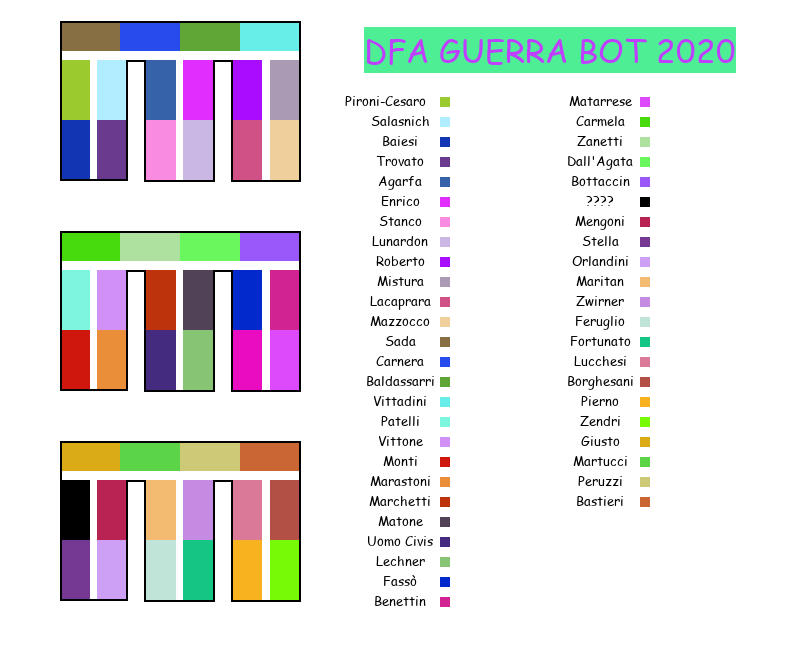
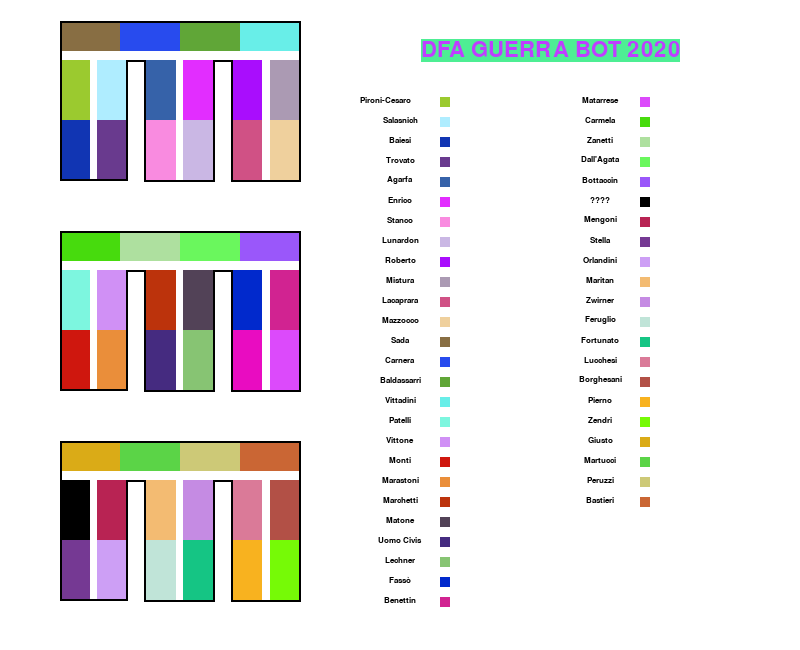
.

Changed region(s): [[0.4375, 0.1538, 0.5312, 0.9538], [0.4375, 0.0308, 0.9375, 0.1231], [0.7188, 0.1538, 0.7812, 0.8]]

diff --git a/main.py b/main.py
@@ -5,19 +5,69 @@ import secrets
 # 0 - fa una partita completa da capo, senza grafica
 # 1 - fa una partita completa dallo stato salvato, senza grafica
 # 2 - legge il file salvato, fa una mossa, mostra la mappa
-# 3 - legge il file salvato, fa una mossa, mostra la mappa, salva file+screen
-# 4 - genera istogramma delle vittorie da capo
-# 5 - legge il file salvato, genera istogramma delle vittorie
+# 3 - legge il file salvato, fa una mossa, mostra la mappa, salva file + screen
+# 4 - istogramma vincitori da capo
+# 5 - istogramma vincitori da stato salvato
 # 6 - istogramma lunghezza partite da capo
 # 7 - istogramma lunghezza partite da stato salvato
-# 9 - schermata iniziale
-# 10 - schermata attuale
+# 9 - schermata iniziale + screen
+# 10 - schermata attuale + screen
 # 11 - testing
+
 mode = 9
 
 GAME_NUMBER = 5000
 
 Z_DIST = 30
+
+NAMES = [
+    'Pironi-Cesaro', 
+    'Salasnich',
+    'Baiesi',
+    'Trovato',
+    'Agarfa',
+    'Enrico',
+    'Stanco',
+    'Lunardon',
+    'Roberto',
+    'Mistura',
+    'Lacaprara',
+    'Mazzocco',
+    'Sada',
+    'Carnera',
+    'Baldassarri',
+    'Vittadini',
+    'Patelli',
+    'Vittone',
+    'Monti',
+    'Marastoni',
+    'Marchetti',
+    'Matone',
+    'Uomo Civis',
+    'Lechner',
+    'Fassò',
+    'Benettin',
+    'Matarrese',
+    'Carmela',
+    'Zanetti',
+    "Dall'Agata",
+    'Bottaccin',
+    '????',
+    'Mengoni',
+    'Stella',
+    'Orlandini',
+    'Maritan',
+    'Zwirner',
+    'Feruglio',
+    'Fortunato',
+    'Lucchesi',
+    'Borghesani',
+    'Pierno',
+    'Zendri',
+    'Giusto',
+    'Martucci',
+    'Peruzzi',
+    'Bastieri']
 
 LOCATIONS = [
     [[75,  60, 0], [155, 202,  47]],
@@ -70,6 +120,7 @@ LOCATIONS = [
     [[270, 36, 2], [202, 102,  52]]
 ]
 
+print(len(LOCATIONS))
 def owner(players, location):
     '''
     Returns the owner of the given location
@@ -133,7 +184,7 @@ def read_players(file):
     
 def generate_color_list(players):
     '''
-    Returns the color list ready to be fed into show_map
+    Returns the color list ready to be fed into map.replot
     '''
     
     colors = []
@@ -142,7 +193,18 @@ def generate_color_list(players):
         colors.append(LOCATIONS[owner(players,i)][1])
         
     return colors
+    
+def generate_legend(players):
+    legend = generate_color_list(VANILLA_PLAYERS)
+    
+    for i in range(len(players)):
+        if players[i] == []:
+            legend[i] = [255,255,255]
+            
+    return legend 
 
+
+VANILLA_PLAYERS = read_players("vanilla_state.txt")
 
 if mode == 0 or mode==1:
     if mode == 0:
@@ -171,7 +233,6 @@ if mode == 0 or mode==1:
             
 elif mode == 2 or mode == 3:
     players = read_players("saved_state.txt")
-    initial_colors = generate_color_list(players)
     
     random_location = secrets.randbelow(len(LOCATIONS))
     near_locations = nearest(players, random_location)
@@ -185,16 +246,17 @@ elif mode == 2 or mode == 3:
         players[loser].remove(target_location)
         players[winner].append(target_location)
         
-        print(str(winner) + " conquista " + str(loser) + \
-              " in " + str(target_location))
+        print(NAMES[winner] + " ha occupato l'ufficio di " + NAMES[loser]+ ".")
+        if players[loser] == []:
+            print(NAMES[loser] + " è stato completamente sconfitto")
         
+        legend = generate_legend(players)
         new_colors = generate_color_list(players)
-        
-        
+       
         if mode == 2:
-            map.replot(initial_colors, new_colors, 0)
+            map.replot(legend, new_colors, 0)
         elif mode == 3:
-            map.replot(initial_colors, new_colors, 1)
+            map.replot(legend, new_colors, 1)
             write_players(players, "saved_state.txt")
     else:
         print(winner)
@@ -229,6 +291,7 @@ elif mode == 4 or mode == 5:
     import matplotlib.pyplot as plt
     fig, ax = plt.subplots()
     n = ax.bar(range(len(LOCATIONS)), winners, tick_label=range(len(LOCATIONS)))
+    plt.xticks(range(len(LOCATIONS)), NAMES, rotation=90, fontsize=10)
     plt.title("z= " + str(Z_DIST) + " N=" + str(GAME_NUMBER))
     plt.show()
     

diff --git a/map.py b/map.py
@@ -306,10 +306,17 @@ def updatecolor(idsconfitto, idvincitore, colorv):
 
 def replot(colorv, colorv1, save_image):
 
+    from platform import system
     import pygame as pg
     import numpy as np
     # import pandas as pd
     import random
+
+    # Font, su mac o altrove
+    if system() == 'Darwin': 
+        comicsans = 'comicsansmsttf'
+    else:
+        comicsans = 'comicsansms'
 
     #Colors
     white = (255,255,255)
@@ -326,12 +333,12 @@ def replot(colorv, colorv1, save_image):
     #Title
     pg.init()
     pg.display.set_caption('DFA GUERRA BOT 2020')
-    font = pg.font.SysFont('comicsansmsttf', 32)
+    font = pg.font.SysFont(comicsans, 32)
     text = font.render('DFA GUERRA BOT 2020', True, orchid, acquamarine)
     textRect = text.get_rect()
     textRect.center = (550, 50)
     screen.blit(text, textRect)
-    font = pg.font.SysFont('comicsansmsttf', 13)
+    font = pg.font.SysFont(comicsans, 13)
     text1 = font.render('Pironi-Cesaro', True, black, white)
     textRect = text1.get_rect()
     textRect.center = (385, 100)
